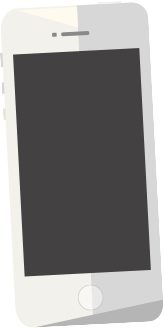
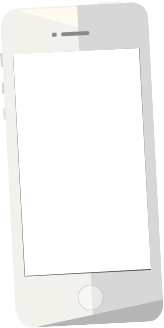
[!]

diff --git a/demo/join/css/style.css b/demo/join/css/style.css
@@ -46,7 +46,7 @@ body{ background:#162632; line-height:1.5;}
 .logo_txt_wrap .txt_5{ display:block; height:42px; width:42px; background:url(../images/cover_txt_5.png) no-repeat 0 0; background-size:contain; position:absolute; left:119px; top:49px; -webkit-transform: scale(0.1); opacity:0;-webkit-animation:a_txt_1 0.2s 0.55s linear both;}
 .logo_txt_wrap .txt_6{ display:block; height:40px; width:41px; background:url(../images/cover_txt_6.png) no-repeat 0 0; background-size:contain; position:absolute; left:161px; top:49px; -webkit-transform: scale(0.1); opacity:0;-webkit-animation:a_txt_1 0.2s 0.75s linear both;}
 .logo_txt_wrap .txt_7{ display:block; height:39px; width:39px; background:url(../images/cover_txt_7.png) no-repeat 0 0; background-size:contain; position:absolute; left:200px; top:49px; z-index:1; -webkit-transform: scale(0.1); opacity:0; -webkit-animation:a_txt_1 0.2s 0.95s linear both;}
-.logo_txt_wrap .icon_qq{ display:block; height:34px; width:35px; background:url(../images/flag_1.png) no-repeat 0 0; background-size:contain; position:absolute; left:0px; top:-5px; -webkit-animation:a_icon_qq 2s 2s linear both infinite alternate; -webkit-transform-origin:100% 100%; opacity:0; -webkit-transform:scale(0.1);}
+.logo_txt_wrap .icon_qq{ display:block; height:34px; width:35px; background:url(../images/flag_1.png) no-repeat 0 0; background-size:contain; position:absolute; left:0px; top:-5px; -webkit-animation:a_icon_qq 2s 4.4s linear both infinite alternate; -webkit-transform-origin:100% 100%; opacity:0; -webkit-transform:scale(0.1);}
 
 @-webkit-keyframes a_txt_1{
 	0%{ -webkit-transform: scale(3.5); opacity:0;}
@@ -73,13 +73,39 @@ body{ background:#162632; line-height:1.5;}
 
 .mine_wrap_1{ display:block; height:62px; width:218px; background:url(../images/mine_bg_2.png) no-repeat 0 0; position:absolute; left:50%; margin-left:-109px; top:328px; background-size:contain;}
 .phone_wrap{ display:block; height:164px; width:82px; position:absolute; left:0px; top:-150px; }
-.phone_wrap .phone_show{display:block; height:164px; width:82px; background:url(../images/phone_bg.png) no-repeat 0 0; background-size:contain; position:absolute; left:0px; top:0px; z-index:1;}
-.phone_wrap .phone_photo{display:block; height:122px; width:73px; background:url(../data/photo_1.png) no-repeat 0 0; background-size:contain; position:absolute; left:5px; top:21px; z-index:1; display:none;}
+.phone_wrap .phone_show{display:block; height:164px; width:82px; background:url(../images/phone_bg.png) no-repeat 0 0; background-size:contain; position:absolute; left:0px; top:0px; z-index:2;}
+.phone_wrap .phone_photo{display:block; height:122px; width:73px; background:url(../data/photo_1.jpg) no-repeat 0 0; background-size:contain; position:absolute; left:5px; top:21px; z-index:1;}
 
 .plane_wrap{ display:block; height:70px; width:115px; position:absolute; left:-10px; top:15px; z-index:1;}
-.plane_wrap .line_1{ display:block; height:21px; width:15px; background:url(../images/line_1_1.png) no-repeat 0 0; position:absolute; left:0px; top:40px; background-size:contain;}
-.plane_wrap .line_2{ display:block; height:62px; width:104px; background:url(../images/line_1_2.png) no-repeat 0 0; position:absolute; left:0px; top:5px; background-size:contain;}
-.plane_wrap .plane{ display:block; height:9px; width:9px; background:url(../images/plane_1.png) no-repeat 0 0; position:absolute; left:103px; top:-2px; background-size:contain;}
+.plane_wrap .line_1{ display:block; height:21px; width:15px; position:absolute; right:100px; top:40px; -webkit-animation:a_line_1 0.36s linear both; overflow:hidden;}
+.plane_wrap .line_1 span{ display:block; height:40px; width:40px; border-radius:40px; position:absolute; right:-27px; top:2px; border:1px dotted #fff;}
+.plane_wrap .line_2{ display:block; height:62px; width:0px; position:absolute; left:0px; top:5px; overflow:hidden; -webkit-animation:a_line_2 1.44s 0.36s linear both;}
+.plane_wrap .line_2 span{ display:block; height:50px; width:160px; border-radius:0 0 160px 160px/0 0 50px 50px; position:absolute; left:17px; top:24px; border:1px dotted #fff; border-top:none; -webkit-transform:rotate(-39.5deg); -webkit-transform-origin:0% 100%;}
+.plane_wrap .plane{ display:block; height:9px; width:9px; background:url(../images/plane_1.png) no-repeat 0 0; position:absolute; left:103px; top:-2px; background-size:contain; z-index:3; -webkit-transform:translate(-92px,38px) rotate(180deg) scale(0.7) ; -webkit-animation:a_plane 1.8s linear both;}
+
+.cover_wrap .plane_wrap .plane{ -webkit-animation-delay:2.6s;} 
+.cover_wrap .plane_wrap .line_1{ -webkit-animation-delay:2.6s;}
+.cover_wrap .plane_wrap .line_2{ -webkit-animation-delay:2.96s;}
+
+@-webkit-keyframes a_plane{
+	0%{ -webkit-transform: translate(-92px,38px) rotate(180deg) scale(0.7); }
+	20%{ -webkit-transform: translate(-107px,54px) rotate(162deg) scale(1); }
+	30%{ -webkit-transform: translate(-98px,60px) rotate(52deg) scale(1); }
+	50%{ -webkit-transform: translate(-78px,59px) rotate(32deg) scale(1); }
+	60%{ -webkit-transform: translate(-56px,47px) rotate(12deg) scale(1); }
+	100%{ -webkit-transform: translate(0,0) rotate(0);}
+}
+
+@-webkit-keyframes a_line_1{
+	0%{ width:0px;}
+	100%{  width:15px;}
+}
+
+@-webkit-keyframes a_line_2{
+	0%{ width:0px;}
+	100%{  width:104px;}
+}
+
 
 .pliers_area{ display:block; height:50px; width:50px; position:absolute;}
 .pliers_area_1{left:-39px; top:50px; -webkit-animation:a_pliers_area_1 0.3s 1.15s linear both; -webkit-transform:rotate(30deg) translate(-60px,0); -webkit-transform-origin:-50% 0%; opacity:0;}
@@ -127,13 +153,26 @@ body{ background:#162632; line-height:1.5;}
 .recruit_ad_2{ display:block; height:48px; width:145px; background:url(../images/recruit_ad_2.png) no-repeat 0 0; background-size:contain; position:absolute; left:23px; top:-32px; -webkit-transform:rotate(146deg);}
 
 .icon_wrap{ display:block; height:15px; width:100%; position:absolute; left:0px; top:0px;}
-.icon_area{ display:block; height:30px; width:30px; background:rgba(0,0,0,0.5); position:absolute;}
+.icon_area{ display:block; height:30px; width:30px; position:absolute; overflow:hidden;}
+.icon_area i{ display:block; height:30px; width:30px; position:absolute; left:0px; top:11px; -webkit-animation:a_icon_area 0.4s linear both; -webkit-transform:translate(0,10px);}
 .icon_area_1{ left:85px; bottom:0px;}
 .icon_area_2{ left:122px; bottom:-6px;}
 .icon_area_3{ left:150px; bottom:0px;}
-.icon_area_4{ left:175px; bottom:-10px;}
+.icon_area_4{ left:179px; bottom:-10px;}
+
+.icon_area .icon_1{ background:url(../images/icon_1.png) no-repeat center bottom; background-size:22px 22px; -webkit-animation-delay:2.6s;}
+.icon_area .icon_2{ background:url(../images/icon_2.png) no-repeat center bottom; background-size:22px 22px; -webkit-animation-delay:2.5s;}
+.icon_area .icon_3{ background:url(../images/icon_3.png) no-repeat center bottom; background-size:22px 22px; -webkit-animation-delay:2s;}
+.icon_area .icon_4{ background:url(../images/icon_4.png) no-repeat center bottom; background-size:22px 22px; -webkit-animation-delay:2.2s;}
 
 
+@-webkit-keyframes a_icon_area{
+	0%{ -webkit-transform:translate(0,12px);}
+	25%{ -webkit-transform:translate(0,-5px);}
+	50%{ -webkit-transform:translate(0,3px);}
+	75%{ -webkit-transform:translate(0,-2px);}
+	100%{ -webkit-transform:translate(0,0);}
+}
 
 
 

diff --git a/demo/join/js/js.js b/demo/join/js/js.js
@@ -103,9 +103,9 @@ $(document).ready(function(){
 	
 	/*微信转发图片*/
 	
-	var imgUrl = 'http://sunnyzhen.github.io/demo/link_show/images/linkshow.jpg';
+	var imgUrl = 'http://sunnyzhen.github.io/public/img/sunny.jpg';
 	var lineLink = location.href;
-	var descContent = "首期Linkshow，力邀9款产品，多个招聘岗位，邀你听产品故事，荐优秀人才！";
+	var descContent = "校招";
 	var shareTitle = document.title;
 	var appid = '';
 	

diff --git a/demo/join/join.html b/demo/join/join.html
@@ -64,8 +64,8 @@
                 <div class="plane_wrap">
                     <i class="plane plane_1"></i>
                     <div class="plane_line">
-                        <i class="line_1"></i>
-                        <i class="line_2"></i>
+                        <i class="line_1"><span></span></i>
+                        <i class="line_2"><span></span></i>
                     </div>
                 </div>
             </div>
